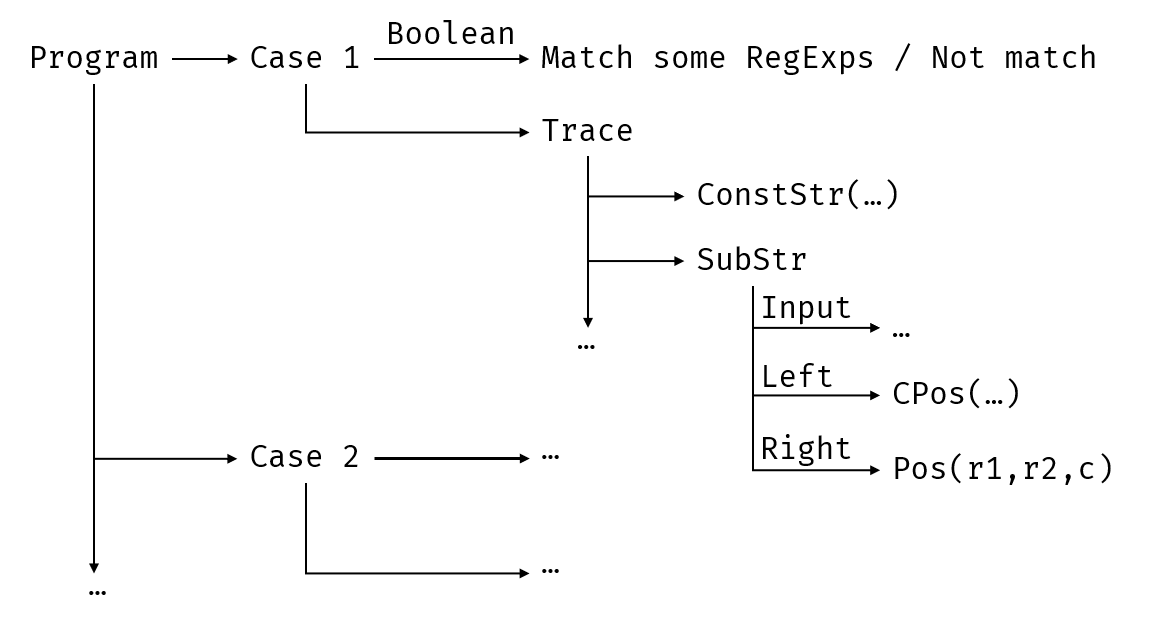
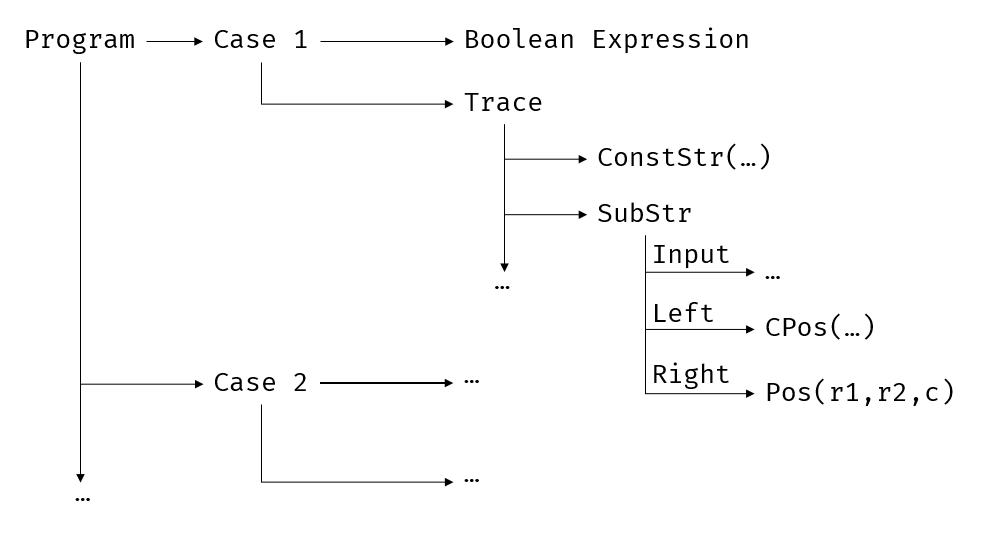
feat(slide): update

diff --git a/pre.md b/pre.md
@@ -2,29 +2,31 @@
 
 Today, I will talk about automating string processing in spreadsheets using input-output examples (**next slide**).
 
-Nowadays, spreadsheets are widely used in our daily life. Scientists use spreadsheets to organize experimental data. Marketing managers use spreadsheets to analyze the sales of goods. And we also use online spreadsheets to collect personal information (**points to picture in the slide**).
+Nowadays, spreadsheets are widely used in our daily life. Scientists use spreadsheets to organize experimental data. Marketing managers use spreadsheets to analyze the sales of goods. And we also use online spreadsheets to collect personal information like this (**points to picture in the slide**).
 
-While large number of these spreadsheets users are not programmers, and they may face some troubles doing string manipulation. Image this situation (**next slide**) that you are the class president, and you want to collect the cities that your classmates live to check whether they come from cities at high risk. But you have get the data like this, the full address of students (**points to slides**). And you just want to **extract** the city from these string. To solve it, for the users who are not programmers, they can select-copy-paste one by one, and it seems hard for them to write some string manipulation scripts with something like regular expressions. However, with the help of our technique, flashfill (**next part**), end-users just need to write a few output examples, click Run. (**perform a demo**). Now, the rest cities are generated here (**points to slides**). It is convenient.
+While large number of these spreadsheets users are not programmers, and it may trouble them to do string manipulation tasks. Imagine this situation (**next slide**) that you are the class president, and you want to collect the cities that your classmates live to check whether they come from cities at high risk. But you have get the data like this, the full address of students (**points to slides**). And you just want to **extract** the city from these string. To solve it, you may select-copy-paste one by one, or write some scripts using regular expressions. However, with the help of our technique, flashfill (**next part**), end-users just need to write a few output examples, click Run. (**perform a demo**). Now, the rest cities are generated here (**points to slides**). It is convenient.
 
-In this work (**next slide**), there are two main sections. We first describe a simple string manipulation language that is expressive enough to solve a lot of real-world tasks. Then (**next part**) we design a learning algorithm to synthesize a program in this language with some given input-output examples.
+Behind it (**next slide**), there are two main sections in this work. We first describe a domain specific language used for string manipulation. It is simpler than regular PLs, but is expressive enough to solve real-world tasks. Another thing, this language is not designed for users to write. Then (**next part**) we design an algorithm. It take several input-output examples as input to synthesize a program in this language. And it will use this program to generate output for the rest inputs.
 
 ## Language for Constructing Output Strings
 
 First (**next slide**), let us have a quick look at this string manipulation language (**next slide**).
 
-One basic assumption in our work is that the output string is generated from the input string. The string language only do syntactic pattern mattching and copy-paste the input to the output.
+One basic assumption in our work is that the output string is generated from the input string. The string language only do syntactic pattern mattching and copy fragment from input and paste to the output.
 
 ### Trace
 
-So here is the main body of the language, called Trace Expression. It is a concatenation of some atom string expressions.
+Trace Expression is the main body of the language. It represents how the output string is generated. It is a concatenation of some atom string expressions.
 
-See this example (**points to slide**), the output string consists of 3 parts, the first part "A" comes from the first input, and the second part is a constant string " lives at " encoded in the program, and the last part "nanjing" is a substring of the second input. The constant string and substring are all atom expressions. Then we concatenate them together to get the output string.
+See this example (**points to slide**), the output string consists of 3 parts, the first part "A" comes from the first input, and next is a constant string " lives at " encoded in the program, and the last part "nanjing" is a substring of the second input. The constant string and substring are all atom expressions. Then we concatenate them together to get the output string, "A lives at nanjing".
+
+Here, constant string is hard encoded in the program of our string language.
 
 ### Substring
 
-Then (**next slide**), let us see more details about what substring is. The substring consists of 3 parameters. We first choose an index $i$, that denotes which input string is used (**next click**), and two positions $left, right$ which denots the left and right boundaries of substring. And the concrete position are evaluationed by a position expression.
+Then (**next slide**), let us see more details about what substring is. The substring consists of 3 parameters. We first choose an index $i$, that denotes which input string is used (**next click**), and two positions $left, right$ which denotes the left and right boundaries of substring. And the concrete position are evaluated by a position expression.
 
-For this example, we want to extract the substring "nanjing". We first choose input column Adress. Then we need to find the left and right position. While the $CPos(k)$ is a position expression which evaluates to a constant number. Non-negative index $k$ is the $k$-th index from the left side, while the negative is from the right side.
+For this example, we want to extract the substring "nanjing". We first choose input column Address. Then we need to find the left and right position. While the $CPos(k)$ is a position expression which evaluates to a constant number. Non-negative index $k$ is the $k$-th index from the left side, while the negative is from the right side.
 
 However, in this way, we losses much generalization ability. If we use some different provinces or universities, then we will get wrong results (**next click**). As a result, we can use regular expressions.
 
@@ -34,15 +36,15 @@ $Pos$ is another kind of position expression. The first two parameters are regul
 
 In our string manipulation language, we only use a small subset of regular expressions. It is just a sequence of tokens. Each token is a category of characters, like letters, digits, spaces, and so on. In this example, this regular expression will accept the strings that start with as least one lowercase letter and end with at least one digit number, which is equivalent with the normal regular expressions `[a-z]+[0-9]+`.
 
-Notice that we don't support the kleen star and disjunct operation. Although we losses some expressiveness, but we can have a more efficient synthesize algorithm for that the kleen star and disjunct will cosume lots of time when synthesizing program.
+Notice that we don't support the kleen star and disjunct operation. Although we losses some expressiveness, but we can have a more efficient synthesize algorithm for that the kleen star and disjunct will consume lots of time when synthesizing program.
 
 Moreover, we also make a trade-off that use top-level conditionals (**next slide**).
 
 ### Conditionals
 
-The top-level of the string language is `Switch` that receives pairs of a boolean expression and a trace expression. The string language will evaluate the trace expression corresponding to the first satisfied boolean expression.
+The top-level of the string language is `Switch` that receives pairs of a Boolean expression and a trace expression. The string language will evaluate the trace expression corresponding to the first satisfied Boolean expression.
 
-The top-level is some switch-cases. Then, if the input satifies a boolean expression, the corresponding trace expression is evaluated. Then all the atom expressions in trace will be evaluated one by one. Finally, we get the output string. Now, this is all the language constructions.
+The top-level is some switch-cases. Then, if the input satifies a Boolean expression, the corresponding trace expression is evaluated. Then all the atom expressions in trace will be evaluated one by one. Finally, we get the output string. Now, this is all the language constructions.
 
 ### Example
 
@@ -58,7 +60,7 @@ Given some input-output examples $(i_1, o_1), (i_2, o_2), \dots$, synthesize a p
 
 However, synthesizing this program $P$ directly seems to be hard. We can solve it in another way.
 
-Divide the problem into little parts. Generate a program $P_i$ for each input-output example pair, and then merge them together to get the final program $P$ (**Highlight in the slide**). Sometimes, the merging operation may fail, so that in this case for those classes of programs cannot be merged, we generate boolean expressions to classify them.
+Divide the problem into little parts. Generate a program $P_i$ for each input-output example pair, and then merge them together to get the final program $P$ (**Highlight in the slide**). Sometimes, the merging operation may fail, so that in this case for those classes of programs cannot be merged, we generate Boolean expressions to classify them.
 
 ### Learn Trace
 
@@ -82,7 +84,7 @@ After the first step, we have generated $n$ string programs for each input-outpu
 
 In this step, we use a greedy strategy to intersect programs. We measure the compatibility of a pair of programs. During each iteration, select a pair of programs with the highest compatibility score, until we cannot choose any pairs to intersect a non-empty program.
 
-Then, at the third step, we use the partition result of the previous step, and generate a boolean classification expression in DNF form for each group to distinguish them from each other. Finally, put them in a top-level switch-case expression, it is just the output program we want.
+Then, at the third step, we use the partition result of the previous step, and generate a Boolean classification expression in DNF form for each group to distinguish them from each other. Finally, put them in a top-level switch-case expression, it is just the output program we want.
 
 ## Extensions
 

diff --git a/packages/slide/slides.md b/packages/slide/slides.md
@@ -107,11 +107,11 @@ class: text-center
 
 # Trace
 
-Trace Expr is a <span class="font-bold underline">concatenation</span> of atom expressions, <span class="font-bold underline">substrings of inputs</span> or a <span class="font-bold underline">constant string</span>.
-
 <div font="mono" text="center">
   <span>Trace(ConstStr(...), SubStr(...), ...)</span>
 </div>
+
+Trace Expr is a <span class="font-bold underline">concatenation</span> of atom expressions, <span class="font-bold underline">substrings of inputs</span> or a <span class="font-bold underline">constant string</span>.
 
 <div v-click class="w-full mt-4 text-center">
   <img class="inline-block" src="/trace.png" alt="spreadsheets" style="zoom: 70%;">
@@ -199,9 +199,9 @@ where RE = LowercaseTokens
 
 # Regular Expressions
 
-Only use a **small subset of regular expressions**.
+<div font="mono" text="center">TokenSequence(Tokens, ...)</div>
 
-<mdi-arrow-right /> **A Sequence of Tokens**.
+Only use a **small subset of regular expressions**.
 
 <blockquote v-click class="mt-8">
   <p font="mono" text="center">R = TokenSequence(LowercaseTokens, NumericTokens)</p>
@@ -209,7 +209,7 @@ Only use a **small subset of regular expressions**.
   <p font="mono" text="center">R = [a-z]+ [0-9]+</p>
 </blockquote>
 
-<div class="mt-8 flex items-center justify-center">
+<div class="mt-4 flex items-center justify-center">
   <div v-click>
     <p>No <span class="underline">kleen star</span> <span font="mono">([a-z]*)</span>.</p>
     <p>No <span class="underline">disjunct operation</span> <span font="mono">([a-z] | [0-9])</span>.</p>
@@ -220,9 +220,13 @@ Only use a **small subset of regular expressions**.
   </div>
 </div>
 
+<div v-click class="mt-4" font="mono" text="center">
+  Switch((Boolean Expr, Trace Expr), ...)
+</div>
+
 ---
 
-# Conditionals
+# Overview / AST
 
 <!-- <div class="font-mono text-center">
   <span>Switch(</span>
@@ -260,26 +264,6 @@ $$ -->
   <p>Trace("<span class="underline">case </span>", <span font="bold">SubStr(Num, CPos(0), CPos(-1))</span>,</p>
   <p>&nbsp;&nbsp;&nbsp;&nbsp;&nbsp;&nbsp;"<span class="underline">: return </span>", <span font="bold">SubStr(Rev, CPos(0), CPos(-1))</span>,</p>
   <p>&nbsp;&nbsp;&nbsp;&nbsp;&nbsp;&nbsp;"<span class="underline">;</span>")</p>
-</div>
-
----
-
-# Example
-
-<div class="w-full">
-  <flashfill class="mt-8" edit :data="[
-    { input: ['Check-in: 2000 mora'], output: '2000 mora' },
-    { input: ['New character: 180 fate'], output: '180 fate' },
-    { input: ['Intertwined fate: 160 primogem'] },
-    { input: ['New weapon: 240 fate'] }
-  ]" :input-label="['Item']"
-  :input-width="[540]" :output-width="240" />
-</div>
-
-<div font="mono">
-  <p>Trace(SubStr(Item,</p>
-  <p class="font-bold">Pos(TokenSeq(Colon, Space), TokenSeq(Numeric), -1),</p>
-  <p>CPos(-1)))</p>
 </div>
 
 ---
@@ -417,11 +401,27 @@ layout: center
 class: text-center
 ---
 
-# END
+<!-- # END
 
-<div class="h-8"></div>
+<div class="h-8"></div> -->
 
 # Q & A
+
+<div class="mt-8 w-full">
+  <flashfill class="mt-8" edit :data="[
+    { input: ['Check-in: 2000 mora'], output: '2000 mora' },
+    { input: ['New character: 180 fate'], output: '180 fate' },
+    { input: ['Intertwined fate: 160 primogem'] },
+    { input: ['New weapon: 240 fate'] }
+  ]" :input-label="['Item']"
+  :input-width="[540]" :output-width="240" />
+</div>
+
+<!-- <div font="mono">
+  <p>Trace(SubStr(Item,</p>
+  <p class="font-bold">Pos(TokenSeq(Colon, Space), TokenSeq(Numeric), -1),</p>
+  <p>CPos(-1)))</p>
+</div> -->
 
 ---
 
